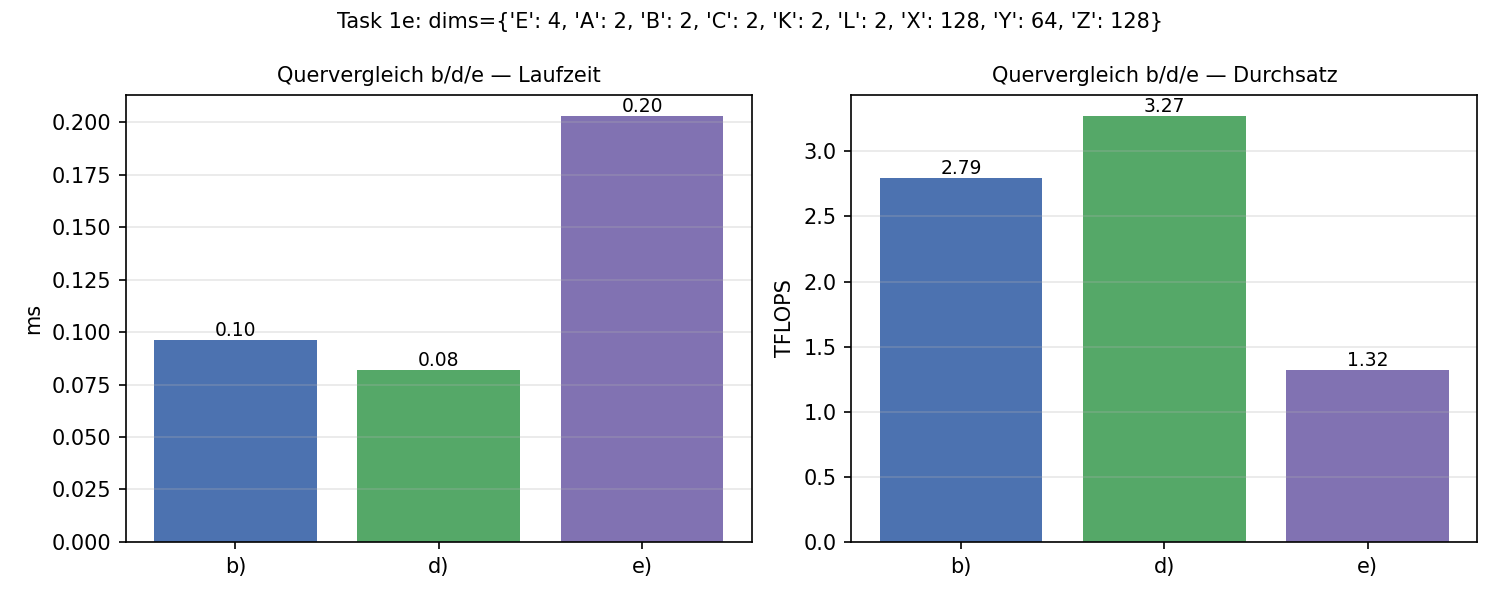
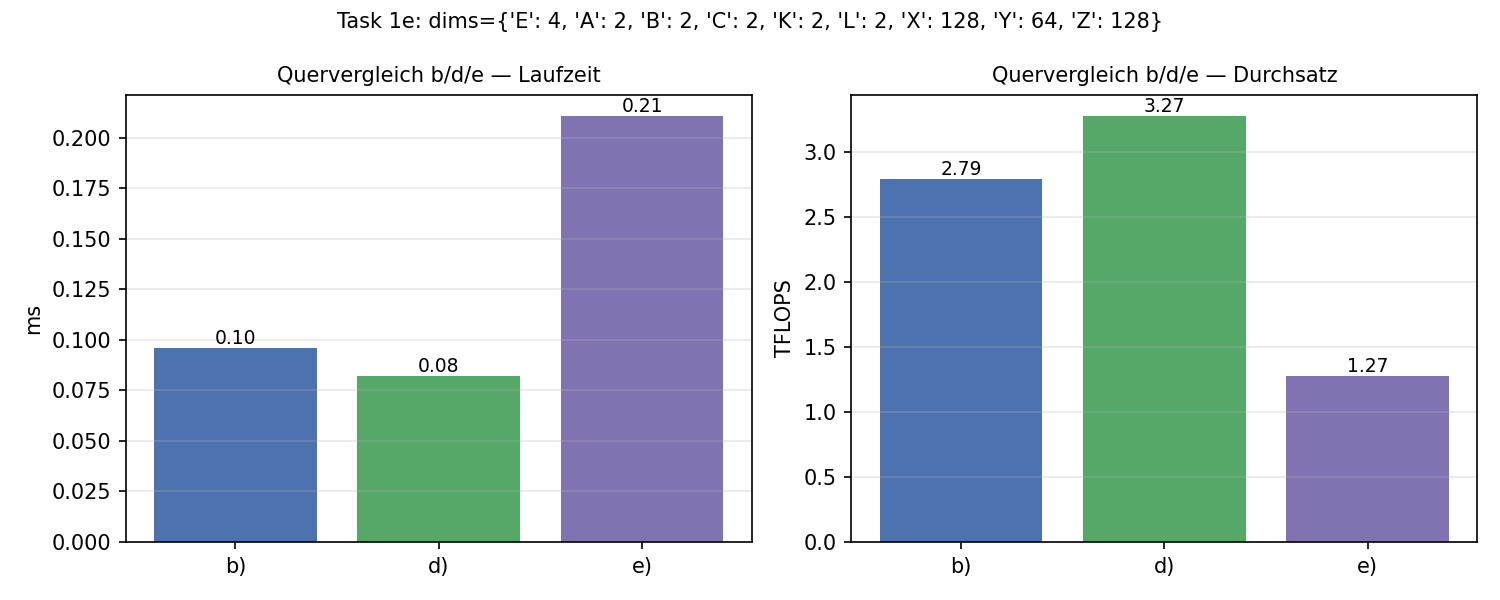
fix assignment 4

diff --git a/assignments/04_assignment/src/task_01.py b/assignments/04_assignment/src/task_01.py
@@ -435,13 +435,20 @@ def benchmark():
        b) vs d): Ein Setting wo b gewinnt, eines wo d gewinnt.
        Quervergleich b/d/e auf mittlerer Konfiguration.
     """
-    # b vs c: 
+    # b vs c:
+    # c) sequentialisiert b -> B-Tile (unabh. von b) wird ueber die b-Schleife
+    # wiederverwendet. Das zahlt sich aber NUR aus, wenn das B-Tensor den 24 MB
+    # L2 der GB10 sprengt: dann kostet b)s Bd-fache B-Nachladung DRAM-Bandbreite,
+    # waehrend c) den B-Tile pro Block aus dem L2 haelt. Bei kleinem B (passt in
+    # L2) bekommt b) denselben Reuse gratis -> c) verliert nur Occupancy.
     print("\n=== Vergleich b) vs c) ===")
+    # b) vorne: kleines B (1 MB, passt in L2), viel Restparallelitaet (a*c=64)
     cfg_bc_b = dict(E=2, A=8, B=2, C=8, K=2, L=2, X=128, Y=64, Z=128)
-    cfg_bc_c = dict(E=1, A=2, B=16, C=2, K=2, L=2, X=128, Y=64, Z=128)
-    res_bc_b = bench_compare("Setting wo b) vorne ist (b klein, a*c gross)",
+    # c) vorne: B = 32 MB > L2, Grid bleibt gross (occupancy-erhaltend)
+    cfg_bc_c = dict(E=8, A=2, B=8, C=8, K=4, L=4, X=128, Y=64, Z=256)
+    res_bc_b = bench_compare("Setting wo b) vorne ist (B klein, passt in L2)",
                              cfg_bc_b, [("b)", run_b), ("c)", run_c)])
-    res_bc_c = bench_compare("Setting wo c) vorne ist (b gross, a*c klein)",
+    res_bc_c = bench_compare("Setting wo c) vorne ist (B = 32 MB > L2)",
                              cfg_bc_c, [("b)", run_b), ("c)", run_c)])
 
     # b vs d:
@@ -462,8 +469,8 @@ def benchmark():
 
     return {
         "bc": [
-            ("b > c (|b|=2, |a|*|c|=64)", cfg_bc_b, res_bc_b),
-            ("c > b (|b|=16, |a|*|c|=4)", cfg_bc_c, res_bc_c),
+            ("b > c (B klein, in L2)", cfg_bc_b, res_bc_b),
+            ("c > b (B = 32 MB > L2)", cfg_bc_c, res_bc_c),
         ],
         "bd": [
             ("d > b (|l|=8, |y|=32)",     cfg_bd_d, res_bd_d),
@@ -568,40 +575,40 @@ Task 1: Benchmark
 
 === Vergleich b) vs c) ===
 
-  Setting wo b) vorne ist (b klein, a*c gross)
+  Setting wo b) vorne ist (B klein, passt in L2)
     dims = {'E': 2, 'A': 8, 'B': 2, 'C': 8, 'K': 2, 'L': 2, 'X': 128, 'Y': 64, 'Z': 128}
     FLOPs = 2.147e+09
-    b)           0.5244 ms     4.095 TFLOPS
-    c)           1.0464 ms     2.052 TFLOPS
+    b)           0.5271 ms     4.074 TFLOPS
+    c)           1.0592 ms     2.028 TFLOPS
 
-  Setting wo c) vorne ist (b gross, a*c klein)
-    dims = {'E': 1, 'A': 2, 'B': 16, 'C': 2, 'K': 2, 'L': 2, 'X': 128, 'Y': 64, 'Z': 128}
-    FLOPs = 5.369e+08
-    b)           0.1605 ms     3.346 TFLOPS
-    c)           0.3624 ms     1.481 TFLOPS
+  Setting wo c) vorne ist (B = 32 MB > L2)
+    dims = {'E': 8, 'A': 2, 'B': 8, 'C': 8, 'K': 4, 'L': 4, 'X': 128, 'Y': 64, 'Z': 256}
+    FLOPs = 6.872e+10
+    b)          44.6730 ms     1.538 TFLOPS
+    c)          40.2975 ms     1.705 TFLOPS
 
 === Vergleich b) vs d) ===
 
   Setting wo d) vorne ist (L gross, Y klein)
     dims = {'E': 2, 'A': 4, 'B': 2, 'C': 4, 'K': 2, 'L': 8, 'X': 128, 'Y': 32, 'Z': 128}
     FLOPs = 1.074e+09
-    b)           0.5002 ms     2.146 TFLOPS
-    d)           0.3859 ms     2.782 TFLOPS
+    b)           0.4882 ms     2.199 TFLOPS
+    d)           0.4030 ms     2.664 TFLOPS
 
   Setting wo b) vorne ist (L=1, Y gross)
     dims = {'E': 2, 'A': 4, 'B': 2, 'C': 4, 'K': 8, 'L': 1, 'X': 128, 'Y': 64, 'Z': 128}
     FLOPs = 1.074e+09
-    b)           0.5284 ms     2.032 TFLOPS
-    d)           0.5382 ms     1.995 TFLOPS
+    b)           0.5357 ms     2.004 TFLOPS
+    d)           0.5281 ms     2.033 TFLOPS
 
 === Variante e) ===
 
   Quervergleich b) / d) / e)
     dims = {'E': 4, 'A': 2, 'B': 2, 'C': 2, 'K': 2, 'L': 2, 'X': 128, 'Y': 64, 'Z': 128}
     FLOPs = 2.684e+08
-    b)           0.0961 ms     2.793 TFLOPS
-    d)           0.0821 ms     3.269 TFLOPS
-    e)           0.2029 ms     1.323 TFLOPS
+    b)           0.0961 ms     2.792 TFLOPS
+    d)           0.0821 ms     3.271 TFLOPS
+    e)           0.2106 ms     1.275 TFLOPS
 
 Task 1: Plot
   Plot: /home/mla08/MLA/mla/assignments/04_assignment/src/task01_bc_vs_bd.png

diff --git a/sphinx/source/chapters/04_tensor_contractions_on_gpus/loesung.rst b/sphinx/source/chapters/04_tensor_contractions_on_gpus/loesung.rst
@@ -187,14 +187,22 @@ wiederverwendet.
        out = ct.reshape(ct.astype(acc, C.dtype), (1, 1, 1, 1, tx, tz))
        ct.store(C, index=(pid_e, pid_a, bb, pid_c, pid_x, pid_z), tile=out)
 
-**Vermutung & Tests**
+**Trade-off & Konfigurationswahl**
 
-Trade-off: c) gewinnt B-Tile-Reuse über die b-Schleife, verliert
-aber den b-Faktor im Grid – c) vorne erwartet bei großem ``|b|``,
-b) vorne bei kleinem ``|b|``. Getestet:
+c) gewinnt den B-Tile-Reuse über die b-Schleife (das B-Tile
+``B[e,c,k,l,y,z]`` hängt nicht von ``b`` ab), verliert aber den ``b``-Faktor
+im Grid. Der Reuse zahlt sich jedoch **nur dann aus, wenn das B-Tensor den
+24 MB L2 der GB10 sprengt**: Erst dann kostet b)s ``|b|``-fache Nachladung
+derselben B-Tiles echte DRAM-Bandbreite, während c) sie pro Block aus dem L2
+hält. Passt ``B`` dagegen in den L2 (kleine Dimensionen), bekommt b) exakt
+denselben Reuse gratis – dann bleibt c) nur der Occupancy-Nachteil des
+kleineren Grids. Zweite Bedingung: c)s Grid muss trotz sequentialisiertem
+``b`` groß genug bleiben, um die 48 SMs zu sättigen. Getestet:
 
-* ``|b|=2``, ``|a|·|c|=64`` → Erwartung b) vorne.
-* ``|b|=16``, ``|a|·|c|=4`` → Erwartung c) vorne.
+* **b) vorne:** ``B ≈ 1 MB`` (passt in L2), viel Restparallelität
+  (``|a|·|c| = 64``).
+* **c) vorne:** ``B ≈ 32 MB > L2`` (``E=8, C=8, K=4, L=4, Y=64, Z=256``), Grid
+  bleibt mit ``(E·A, C, ⌈X/tx⌉·⌈Z/tz⌉) = (16, 8, 32) = 4096`` Blöcken groß.
 
 Task 1d: GEMM = (x, y·l, z), l und y gemerged
 ----------------------------------------------
@@ -330,25 +338,25 @@ FP32-Akkumulator, GEMM-Tile ``(32, 32, 32)``:
      - ms
      - TFLOPS
      - Schneller
-   * - ``|b|=2, |a|·|c|=64, X=Y=Z=128`` (FLOPs ≈ 2.15·10⁹)
+   * - ``B ≈ 1 MB (in L2), |a|·|c|=64`` (FLOPs ≈ 2.15·10⁹)
      - b)
-     - 0.524
-     - **4.10**
+     - 0.527
+     - **4.07**
      - **b) (2.0×)**
    * -
      - c)
-     - 1.046
-     - 2.05
+     - 1.059
+     - 2.03
      -
-   * - ``|b|=16, |a|·|c|=4, X=Y=Z=128`` (FLOPs ≈ 5.37·10⁸)
+   * - ``B ≈ 32 MB (> L2), Grid 4096`` (FLOPs ≈ 6.87·10¹⁰)
      - b)
-     - 0.161
-     - **3.35**
-     - **b) (2.3×)**
+     - 44.67
+     - 1.54
+     - **c) (1.11×)**
    * -
      - c)
-     - 0.362
-     - 1.48
+     - 40.30
+     - **1.71**
      -
 
 .. list-table:: b) vs d)
@@ -362,23 +370,23 @@ FP32-Akkumulator, GEMM-Tile ``(32, 32, 32)``:
      - Schneller
    * - ``|l|=8, |y|=32, X=Z=128`` (FLOPs ≈ 1.07·10⁹)
      - b)
-     - 0.500
-     - 2.15
-     - **d) (1.30×)**
+     - 0.488
+     - 2.20
+     - **d) (1.21×)**
    * -
      - d)
-     - 0.386
-     - **2.78**
+     - 0.403
+     - **2.66**
      -
    * - ``|l|=1, |y|=64, X=Z=128`` (FLOPs ≈ 1.07·10⁹)
      - b)
-     - 0.528
-     - **2.03**
-     - b) (≈)
+     - 0.536
+     - 2.00
+     - ≈ (Gleichstand)
    * -
      - d)
-     - 0.538
-     - 2.00
+     - 0.528
+     - **2.03**
      -
 
 .. list-table:: Quervergleich b) / d) / e), ``|e|=4``
@@ -398,9 +406,9 @@ FP32-Akkumulator, GEMM-Tile ``(32, 32, 32)``:
      - **3.27**
      - 1.17×
    * - e)
-     - 0.203
-     - 1.32
-     - 0.47×
+     - 0.211
+     - 1.28
+     - 0.46×
 
 .. figure:: ../../../../assignments/04_assignment/src/task01_bc_vs_bd.png
    :align: center
@@ -422,15 +430,21 @@ FP32-Akkumulator, GEMM-Tile ``(32, 32, 32)``:
 Beobachtungen und Vermutungen
 ------------------------------
 
-* **b) vs c)**: b) gewinnt in *beiden* Konfigurationen – bei
-  ``|b|=16`` läuft das Gegenteil der Erwartung (3.35 vs 1.48 TFLOPS).
-  Vermutung: der L2-Reuse-Gewinn wird vom Occupancy-Verlust
-  überkompensiert. 
-* **b) vs d)**: wie erwartet. d) mit ~30 % vorne bei ``|l|=8``,
+* **b) vs c)**: Der Ausgang hängt daran, ob das B-Tensor in den L2 passt.
+  Bei kleinem ``B`` (≈ 1 MB) gewinnt b) klar (4.07 vs 2.03 TFLOPS): b) zieht
+  dieselben B-Tiles gratis aus dem L2, sodass c)s sequentialisiertem ``b`` nur
+  der Occupancy-Nachteil des kleineren Grids bleibt. Sobald ``B`` den 24 MB L2
+  überschreitet (hier ≈ 32 MB), dreht sich das Bild: c) ist ~11 % schneller
+  (1.71 vs 1.54 TFLOPS), weil b)s ``|b|``-fache B-Nachladung nun echte
+  DRAM-Bandbreite kostet, während c) das B-Tile pro Block über die b-Schleife
+  im L2 hält. Der L2-Reuse-Vorteil von c) ist also real, aber an ein großes,
+  nicht-cachebares ``B`` gebunden – bei kleinen, L2-residenten Tensoren
+  existiert er schlicht nicht.
+* **b) vs d)**: wie erwartet. d) mit ~21 % vorne bei ``|l|=8``,
   Vorteil verschwindet bei ``|l|=1``. So wie wir es in VL angesprochen hatten: mehr
   K-Merging → größere innere GEMM-K → bessere Tensor-Core-Auslastung,
   aber nur wenn die gemergte Dim ``>1`` ist.
-* **b/d/e**: e) ist ~2× langsamer als d). Vermutung: ``te=2`` mit
+* **b/d/e**: e) ist ≈ 2,5× langsamer als d). Vermutung: ``te=2`` mit
   ``|e|=4`` halbiert das Grid und bläht den Akkumulator auf
   ``(te, tx, tz)`` – Occupancy sinkt
 
@@ -960,5 +974,5 @@ Beiträge
      - Implementierung Task 2 (Fused-Kontraktions-/Elementwise-Kernel,
        Verifikation und Vergleich gegen den sequentiellen Pfad bei
        2048³-FLOP-Workload) und Task 3 (Kontraktion ``ackm,bcnk->abnm``
-       mit |a|=16, |b|=16, |c|=32, Sweeps über |n| und |k| samt Plots),
-       Sphinx-Report-Abschnitte zu Task 2 und 3
+       mit ``|a|=16, |b|=16, |c|=32``, Sweeps über ``|n|`` und ``|k|`` samt
+       Plots), Sphinx-Report-Abschnitte zu Task 2 und 3

diff --git a/sphinx/source/chapters/04_tensor_contractions_on_gpus/index.rst b/sphinx/source/chapters/04_tensor_contractions_on_gpus/index.rst
@@ -13,4 +13,3 @@ Primitive-Size-Merging und Kernel-Fusion.
 
    aufgabe
    loesung
-   feedback
